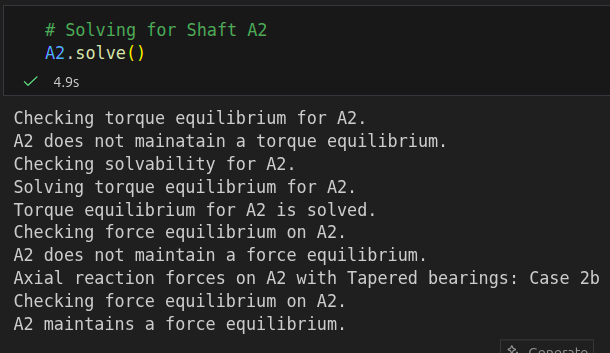
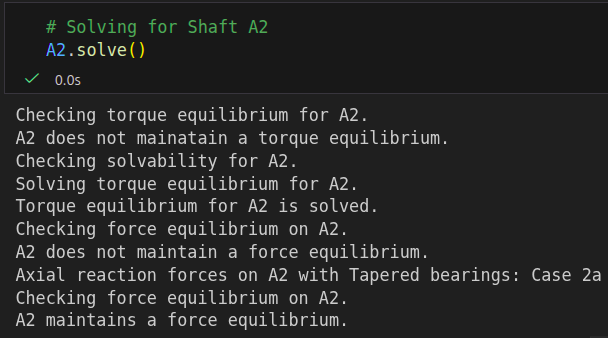
Corrected mistake in spindle definition causing gears R3 and R4 to have null axial load. Changed the figure for A2.solve() output accordingly.

Changed region(s): [[0.0, 0.0, 1.0, 0.9763], [0.0625, 0.0592, 0.4375, 0.1775], [0.8125, 0.9763, 0.9688, 1.0]]

diff --git a/content/posts/pygrtibx_tutorial1/index.md b/content/posts/pygrtibx_tutorial1/index.md
@@ -286,9 +286,9 @@ R1 = pgt.Gear(name="R1", axis=k, m_n=2.5, z=18, psi=20, phi_n=20, Q_v=7, FW=30, 
 # R2
 R2 = pgt.Gear(name="R2", axis=k, m_n=2.5, z=73, psi=-20, phi_n=20, Q_v=7, FW=30, material=R2R3_material)
 # R3
-R3 = pgt.Gear(name="R3", axis=k, m_n=2.5, z=19, psi=-20, phi_n=20, Q_v=7, FW=30, material=R2R3_material)
+R3 = pgt.Gear(name="R3", axis=k, m_n=2.5, z=19, psi=20, phi_n=20, Q_v=7, FW=30, material=R2R3_material)
 # R4
-R4 = pgt.Gear(name="R4", axis=k, m_n=2.5, z=51, psi=20, phi_n=20, Q_v=7, FW=30, material=R1R4_material)
+R4 = pgt.Gear(name="R4", axis=k, m_n=2.5, z=51, psi=-20, phi_n=20, Q_v=7, FW=30, material=R1R4_material)
 ```
 
 At this point, each gear object has a label, axis of rotation, normal module, number of teeth, helix angle, normal pressure angle, transmission accuracy level, tooth face width, and material properties defined.
@@ -560,9 +560,9 @@ R1 = pgt.Gear(name="R1", loc=zR1, axis=k, m_n=2.5, z=18, psi=20, phi_n=20, Q_v=7
 # R2
 R2 = pgt.Gear(name="R2", loc=zR2, axis=k, m_n=2.5, z=73, psi=-20, phi_n=20, Q_v=7, FW=30, material=R2R3_material)
 # R3
-R3 = pgt.Gear(name="R3", loc=zR3, axis=k, m_n=2.5, z=19, psi=-20, phi_n=20, Q_v=7, FW=30, material=R2R3_material)
+R3 = pgt.Gear(name="R3", loc=zR3, axis=k, m_n=2.5, z=19, psi=20, phi_n=20, Q_v=7, FW=30, material=R2R3_material)
 # R4
-R4 = pgt.Gear(name="R4", loc=zR4, axis=k, m_n=2.5, z=51, psi=20, phi_n=20, Q_v=7, FW=30, material=R1R4_material)
+R4 = pgt.Gear(name="R4", loc=zR4, axis=k, m_n=2.5, z=51, psi=-20, phi_n=20, Q_v=7, FW=30, material=R1R4_material)
 ```
 
 ```python
@@ -659,7 +659,7 @@ Similar to shaft **A1**, spindle **P** would have a **name**, **inputs**, **outp
 
 ```python
 # Spindle P Definition
-spindleP = pgt.Shaft(name="P", inputs=[R2], outputs=[R3], sups=np.array([F, F]))
+spindleP = pgt.Shaft(name="P", inputs=[R2], outputs=[R3], sups=np.array([F, F]), axis=k)
 ```
 
 Note that from the spindle's perspective, it receives an input load from gear **R2** (input) and transfers that through gear **R3** (output). The supports are there but we're not required to calculate any reaction forces on them so it doesn't really matter.
@@ -856,7 +856,7 @@ To check the reaction forces on the bearings **C** and **D**, we can run the fol
 print(C.F_tot.force)
 
 # output
-# [-4712.18425533  1205.44789724 -1519.97716269]
+# [-4712.18425533  -217.84651183 -1474.13035668]
 ```
 
 ```python
@@ -864,7 +864,7 @@ print(C.F_tot.force)
 print(D.F_tot.force)
 
 # output
-# [ 1368.98319344 -4768.43889726  2086.99520397]
+# [ 1368.98319344 -3345.14448819  3257.97407164]
 ```
 
 ## Final Words
